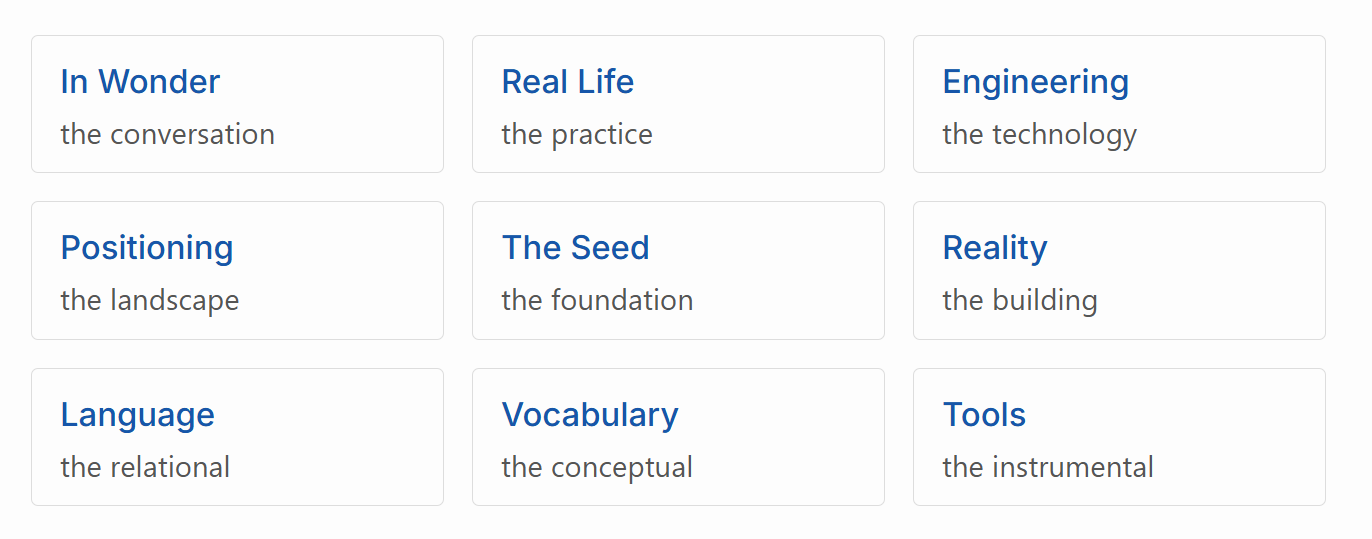
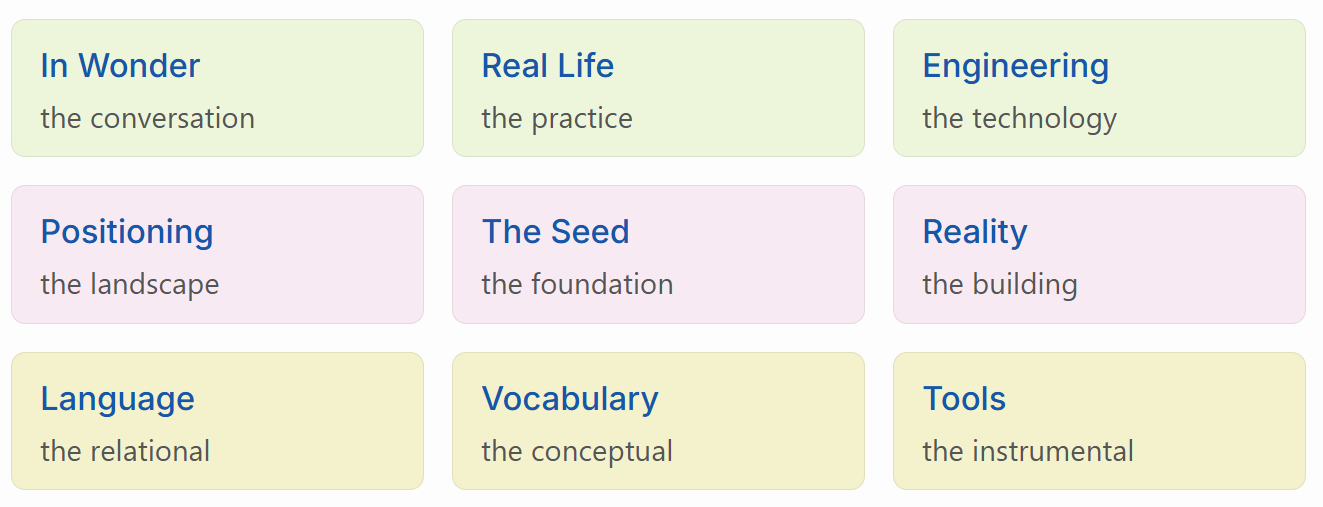
Homepage row colours, Real Life restructure, 9-box page rework
Homepage: row colours added (sage/mauve/wheat), Blog link in topnav.

Real Life: landing page reworked (applied IP intro), 9-box page moved
to /real-life/spl/ subfolder, page content rewritten with middle-first
reading order, cross-bleeding pattern explained, screenshot updated.

DSL hub: restructured, sub-page refinements applied.

diff --git a/docs/_sass/custom.scss b/docs/_sass/custom.scss
@@ -66,17 +66,31 @@
 .area-box {
   display: block;
   padding: 0.75rem 1rem;
-  border: 1px solid #ddd;
-  border-radius: 4px;
+  border: 1px solid rgba(0,0,0,0.08);
+  border-radius: 8px;
   text-decoration: none;
   color: inherit;
   transition: background 0.15s, border-color 0.15s;
 }
 
+/* Row colours: applied (1-3), foundational (4-6), structural (7-9) */
+.area-box:nth-child(-n+3) {
+  background: #EDF6DB;
+}
+.area-box:nth-child(n+4):nth-child(-n+6) {
+  background: #F8EAF3;
+}
+.area-box.area-box:nth-child(5) {
+  background: #F8EAF3;
+}
+.area-box:nth-child(n+7) {
+  background: #F4F2CC;
+}
+
 .area-box:hover {
-  background: #f8f8f8;
   border-color: #999;
   text-decoration: none;
+  filter: brightness(0.97);
 }
 
 .area-title {

diff --git a/docs/_includes/header.html b/docs/_includes/header.html
@@ -8,6 +8,7 @@
       <a class="page-link" href="/about">About</a>
       <a class="page-link" href="/haicc">HAICC</a>
       <a class="page-link" href="/p2p">P2P</a>
+      <a class="page-link" href="/blog/">Blog</a>
     </nav>
   </div>
 </header>

diff --git a/docs/real-life/spl/the-9-box-homepage/index.md b/docs/real-life/spl/the-9-box-homepage/index.md
@@ -1,0 +1,34 @@
+---
+layout: default
+lastmod: 2026-05-14
+title: "The 9-Box Homepage"
+description: "The SPLectrum homepage as a structural artifact — a 3×3 grid whose rows, columns, and centre reveal a coherence that fits the project's own commitments."
+---
+
+[Home](/) > [Real Life](/real-life/) > [SPLectrum Practices](/real-life/spl/) > The 9-Box Homepage
+
+# The 9-Box Homepage
+
+The SPLectrum homepage presents a 3×3 grid of nine boxes on a sufficiently large screen. This layout reflects the structural setup of the site. Furthermore, each row has a distinct colour, to underline the distinct characteristics of each row. On a small screen it is shown as a linear list with the row colours still in place.
+
+## The grid
+
+![The 9-box homepage grid](/assets/images/9-box-homepage.png)
+
+## Reading the rows
+
+The site sections are set up with distinct concerns in mind, but more importantly laid out in three bands: foundational, structural and applied.
+
+Let's start with the **middle row**: *foundational* — you could say the heavy stuff. In the center is the [Seed](/seed/), our axiomatic base. To the left [Positioning](/positioning/) which deals with all the knowledge outside SPLectrum that is of importance. On the right there is [Reality](/reality/) where SPLectrum builds its philosophical framework of interrelational pluralism starting from the seed.
+
+The **bottom row** is about *structure* — what are the static and dynamic structural components that interrelational pluralism is expressed in. The [Language](/language/) section deals with the dynamic side, the relational medium. The [Vocabulary](/vocabulary/) section contains the static side, the sets of concepts. In the [Tools](/tools/) section there is the additional machinery needed to work with both language and vocabulary.
+
+Finally the **top row** deals with the *applied* — where interrelational pluralism is lived. The blog section [In Wonder](/in-wonder/) is about the conversational, anything deemed worth having a chat about. [Real Life](/real-life/) is about the practice, in everyday life, the institutional, engineering, nature around us. The [Engineering](/engineering/) section deals with technological application, software engineering, AI integration, etc.
+
+Because of this single-concern setup the same topic will live in several sections and interlink. For instance Domain-Specific Languages (DSL) is a subject in positioning, with DSLs being created and described in engineering and the topic also being part of the Language and Vocabulary sections. The design decision was that for reasons of clarity it is important to keep facets of the same topic apart.
+
+## A reflexive observation
+
+The homepage is itself a Real Life artifact — a structural application of the SPLectrum worldview to the question of how the project presents itself in public. The grid is not a neutral layout; it is a substantive structural choice. And its validity will become clear by its use as SPLectrum goes through its organic growth cycles.
+
+It is a being as any other with its own experience and shared reality, subjected to the same principles as everything else. 

diff --git a/docs/_posts/2026-05-22-noticing-the-grid.md b/docs/_posts/2026-05-22-noticing-the-grid.md
@@ -35,6 +35,6 @@ It's tempting to claim I designed it this way, but the honest version is that th
 
 And then there's the reflexive bit, which I can't quite let go of. The homepage contains a Real Life box. The homepage is itself a Real Life thing — a structural artifact produced by the worldview it presents. The grid doesn't sit outside the structure it organises. It's inside it. Self-including. The anti-foundationalist in me finds this satisfying; the pragmatist in me suspects it's the kind of observation that matters exactly once and then you move on.
 
-For the structural treatment — rows, columns, what follows — see [The 9-Box Homepage](/real-life/the-9-box-homepage/) in Real Life.
+For the structural treatment — rows, columns, what follows — see [The 9-Box Homepage](/real-life/spl/the-9-box-homepage/) in Real Life.
 
 <small>This post is part of the [SPLectrum series](/blog/label/SPLectrum/).</small>

diff --git a/plan/sections-rework-tasks.md b/plan/sections-rework-tasks.md
@@ -10,6 +10,6 @@ Based on the 9-box homepage discussion. See `9-box-homepage-discussion.md` in Wi
 
 ## Real Life section
 
-- [ ] **Landing page content** — expand beyond current stub
-- [ ] **"The 9-Box Homepage" page** — Real Life piece on the homepage as structural artifact (draft in discussion doc)
-- [ ] **"Noticing the Grid" blog post** — conversational companion to the Real Life page (draft in discussion doc)
+- [x] **Landing page content** — reworked: applied IP intro, SPLectrum Practices as first domain (2026-05-14)
+- [x] **"The 9-Box Homepage" page** — Real Life piece at `/real-life/the-9-box-homepage/` with SVG grid diagram (2026-05-14)
+- [x] **"Noticing the Grid" blog post** — scheduled May 22, status: review needed (2026-05-14)

diff --git a/docs/real-life/index.md b/docs/real-life/index.md
@@ -15,4 +15,4 @@ The Real Life section contains contributions about interrelational pluralism in 
 
 The way SPLectrum applies its philosophy to its own work.
 
-- [The 9-Box Homepage](the-9-box-homepage/) — an expression of the relational structure of the World of SPLectrum site.
+- [The 9-Box Homepage](spl/the-9-box-homepage/) — an expression of the relational structure of the World of SPLectrum site.
